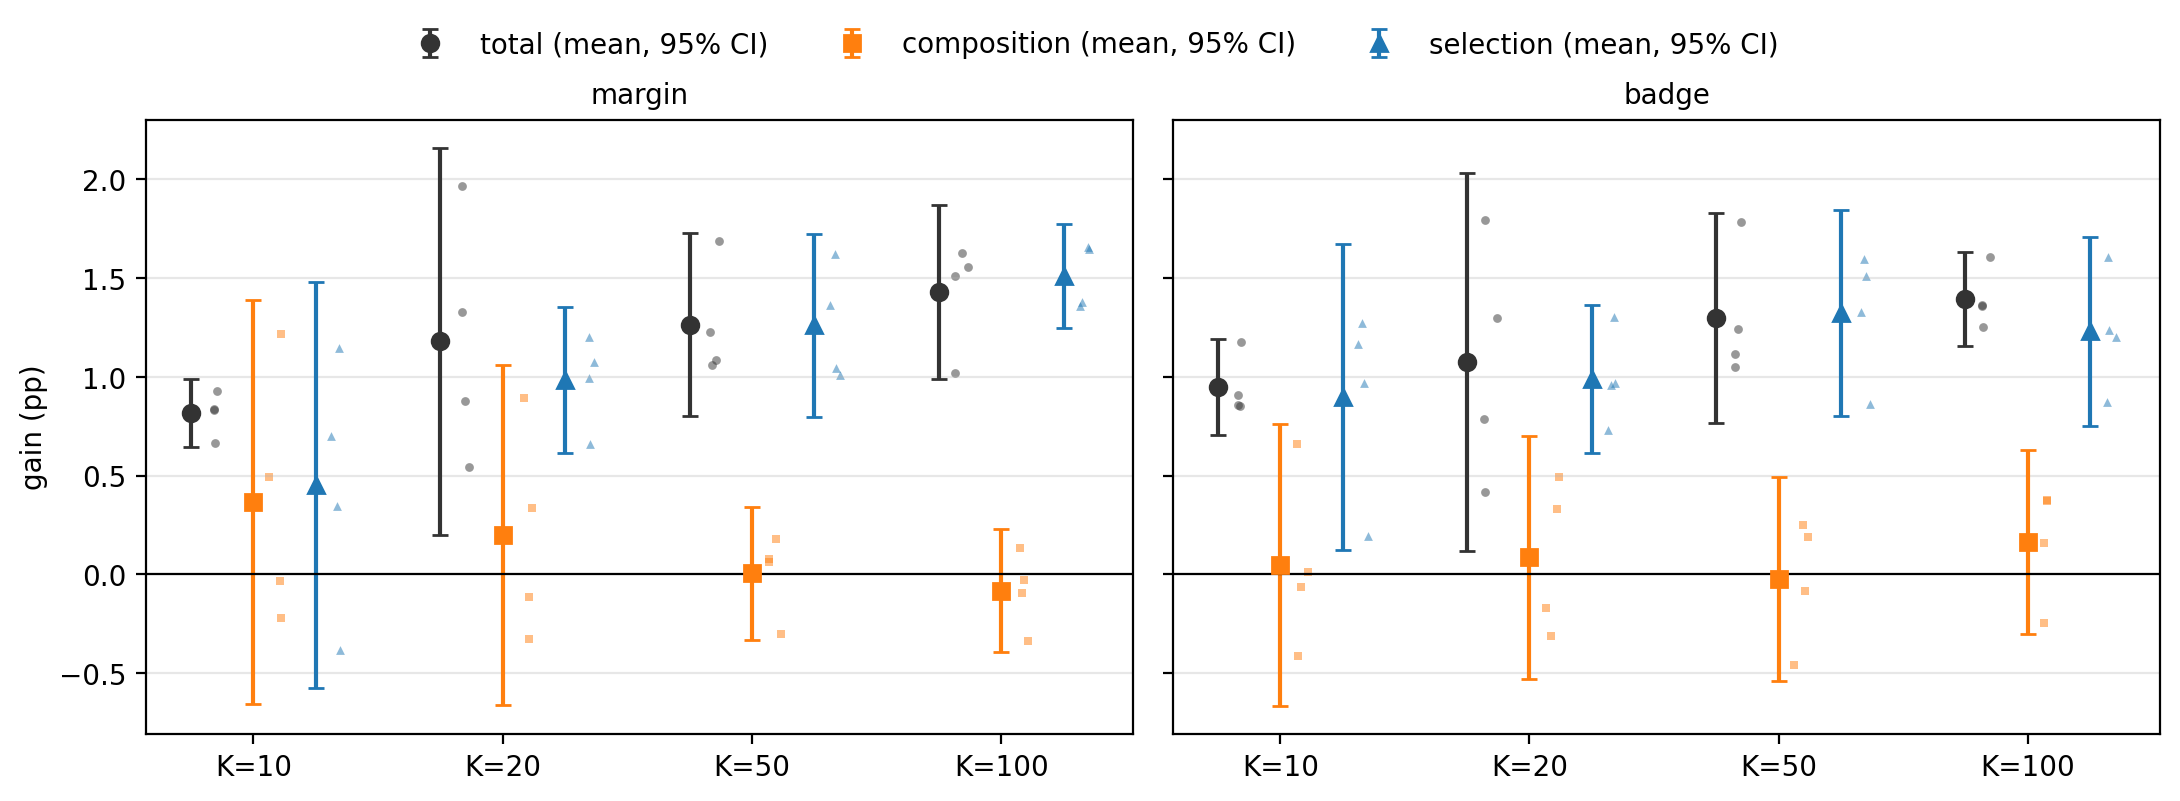
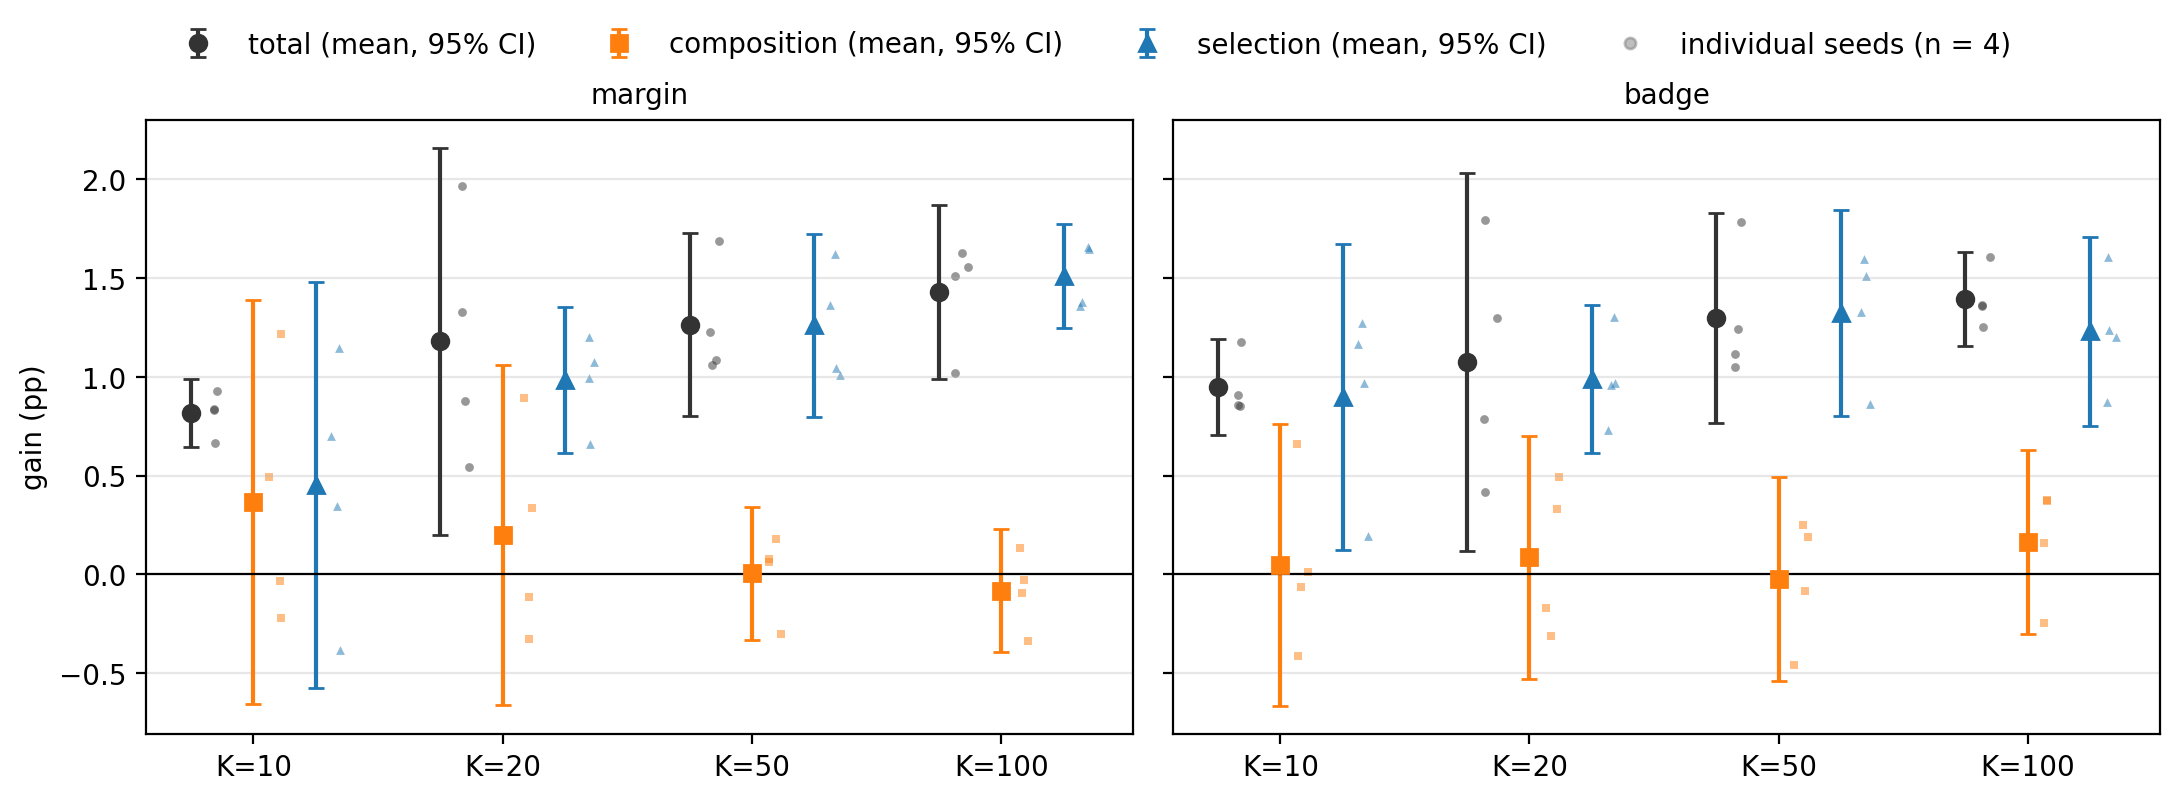
Figure layout: direct K labels and plain axis labels in class composition, seed legend in decomposition; captions

Changed region(s): [[0.0624, 0.0312, 0.9358, 0.0936]]

diff --git a/tools/make_figures.py b/tools/make_figures.py
@@ -12,6 +12,7 @@ import matplotlib
 matplotlib.use("Agg")
 import matplotlib.pyplot as plt  # noqa: E402
 import numpy as np  # noqa: E402
+from matplotlib.lines import Line2D  # noqa: E402
 import pandas as pd  # noqa: E402
 
 from LabelBench.dataset.class_subset import labeled_filename  # noqa: E402
@@ -92,7 +93,9 @@ def fig_decomposition(dec: pd.DataFrame, summary: pd.DataFrame, out_dir: str) ->
         ax.grid(axis="y", alpha=0.3)
     axes[0, 0].set_ylabel("gain (pp)")
     handles, labels = axes[0, 0].get_legend_handles_labels()
-    fig.legend(handles, labels, loc="upper center", ncol=3, bbox_to_anchor=(0.5, 1.06), frameon=False)
+    handles.append(Line2D([], [], marker="o", linestyle="", color="#7f7f7f", alpha=0.5, markersize=4))
+    labels.append(f"individual seeds (n = {seeds['s'].nunique()})")
+    fig.legend(handles, labels, loc="upper center", ncol=4, bbox_to_anchor=(0.5, 1.06), frameon=False)
     fig.tight_layout()
     return save(fig, out_dir, "fig2_decomposition.png")
 
@@ -118,20 +121,35 @@ def fig_class_composition(acq_dir: str, tasks: pd.DataFrame, targets: np.ndarray
     shares = []
     fig, axes = plt.subplots(1, len(STRATEGIES), figsize=(5.5 * len(STRATEGIES), 3.8), sharey=True, squeeze=False)
     for ax, strategy in zip(axes[0], STRATEGIES):
+        starts = []
         for K in Ks:
             x = (np.arange(1, K + 1) - 0.5) / K
-            for condition, style, label in ((strategy, "-", f"{strategy} K={K}"), ("random", ":", f"random K={K}")):
+            for condition, style in ((strategy, "-"), ("random", ":")):
                 result = class_composition(acq_dir, tasks, targets, condition, K, b)
-                ax.plot(x, result["q"], color=colors[K], linestyle=style, label=label)
+                ax.plot(x, result["q"], color=colors[K], linestyle=style)
+                if condition != "random":
+                    starts.append((result["q"][0], x[0], K))
                 if ax is axes[0, 0] or condition != "random":
                     shares.append({"condition": condition, "K": K, "b": b,
                                    "share_q_below_0.5": result["share_below_half"]})
+        # Label each AL curve with K at its left end, spreading the labels so they do not overlap.
+        gap = 0.08 * np.diff(ax.get_ylim())[0]
+        label_y = None
+        for y, x0, K in sorted(starts):
+            label_y = y if label_y is None else max(y, label_y + gap)
+            ax.annotate(f"K={K}", xy=(x0, y), xytext=(-0.06, label_y), ha="right", va="center", fontsize=8,
+                        fontweight="bold", color=colors[K],
+                        arrowprops={"arrowstyle": "-", "color": colors[K], "linewidth": 0.6, "shrinkA": 2})
+        # Room left of 0 for the labels, ticks only on the data range.
+        ax.set_xlim(-0.24, 1.02)
+        ax.set_xticks(np.linspace(0, 1, 6))
         ax.axhline(1.0, color="black", linewidth=0.8)
-        ax.set_title(f"{strategy}, b={b}", fontsize=10)
-        ax.set_xlabel("class rank (rank - 0.5) / K")
+        ax.set_title(f"{strategy}, b = {b} labels per class", fontsize=10)
+        ax.set_xlabel("classes sorted from most to least labeled (fraction of classes)")
         ax.grid(alpha=0.3)
-        ax.legend(fontsize=7, ncol=2, loc="upper right", frameon=False)
-    axes[0, 0].set_ylabel("q = c / b (1.0 = balanced)")
+        ax.legend([Line2D([], [], color="black", linestyle="-"), Line2D([], [], color="black", linestyle=":")],
+                  ["AL", "random"], fontsize=8, loc="upper right", frameon=False)
+    axes[0, 0].set_ylabel("labels in class ÷ balanced share\n(1.0 = balanced)")
     fig.tight_layout()
     return save(fig, out_dir, name), pd.DataFrame(shares)
 

diff --git a/docs/ANALYSIS.md b/docs/ANALYSIS.md
@@ -84,7 +84,8 @@ cb-badge, both with random.
 
 **Figure 1** (`ga3_results/figures/fig1_accuracy_vs_b.png`). Test accuracy (%) vs b, rows margin and badge,
 columns K = 10, 20, 50, 100, b = 10 to 200. Lines: random (grey, dotted), cb-AL (orange, dashed) and AL (blue,
-solid), mean over 4 seeds. Bands: minimum to maximum over the 4 seeds. The y-axis differs per K.
+solid), mean over 4 seeds. Bands: minimum to maximum over the 4 seeds. The y-axis differs per K. b = 10 (the shared
+initial labeled set) is plotted but excluded from the analysis.
 
 **Figure 2** (`fig2_decomposition.png`). Total, composition and selection gain (pp) per K, panels margin and badge.
 Large markers with bars: mean over 4 seeds of the per-seed mean over b = 20 to 200, with the 95% t-interval (3
@@ -92,9 +93,10 @@ degrees of freedom). Small points: the 4 per-seed means, shifted to the right wi
 Horizontal line at 0.
 
 **Figure 3** (`fig3_class_composition_b100.png`, exploratory). Class composition of the labeled sets at b = 100.
-Per K, q = c/b of each of the K classes, sorted in descending order, x = (rank − 0.5)/K, mean over 4 seeds per rank.
-Panels margin and badge. Solid lines: AL. Dotted lines: random. Colour: K, light (K = 10) to dark (K = 100).
-Horizontal line at q = 1.0 (balanced).
+Per K, the labels in each of the K classes divided by the balanced share b (q = c/b above), sorted from most to least
+labeled, at x = (rank − 0.5)/K (fraction of classes), mean over 4 seeds per rank. Panels margin and badge. Solid
+lines: AL, labeled with K at their left end. Dotted lines: random. Colour: K, light (K = 10) to dark (K = 100).
+Horizontal line at 1.0 (balanced). cb-AL is not shown: by construction it has the same per-class counts as AL.
 
 **Figure A1** (`figA1_class_composition_b200.png`, exploratory). As Figure 3, at b = 200.
 
